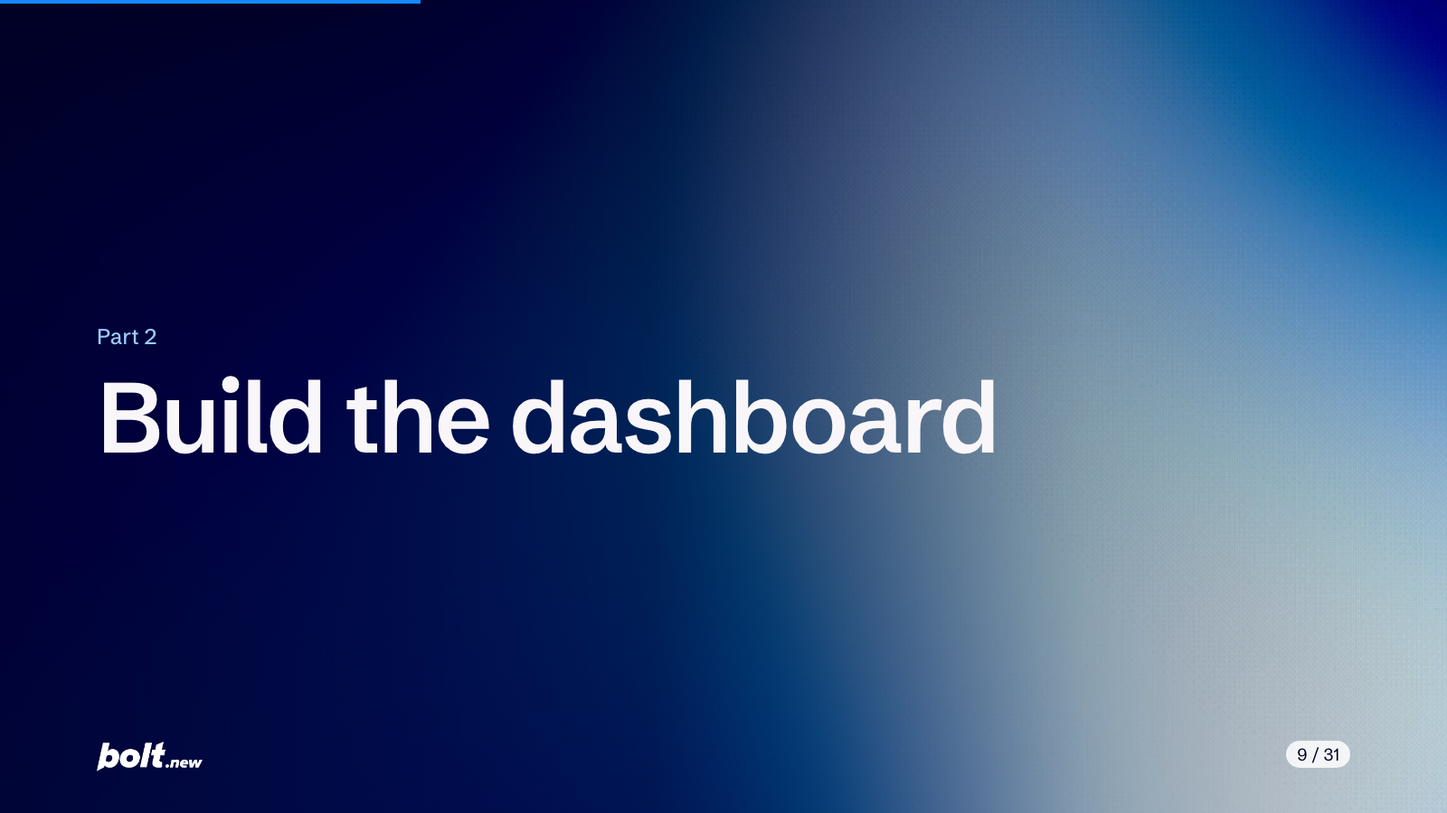
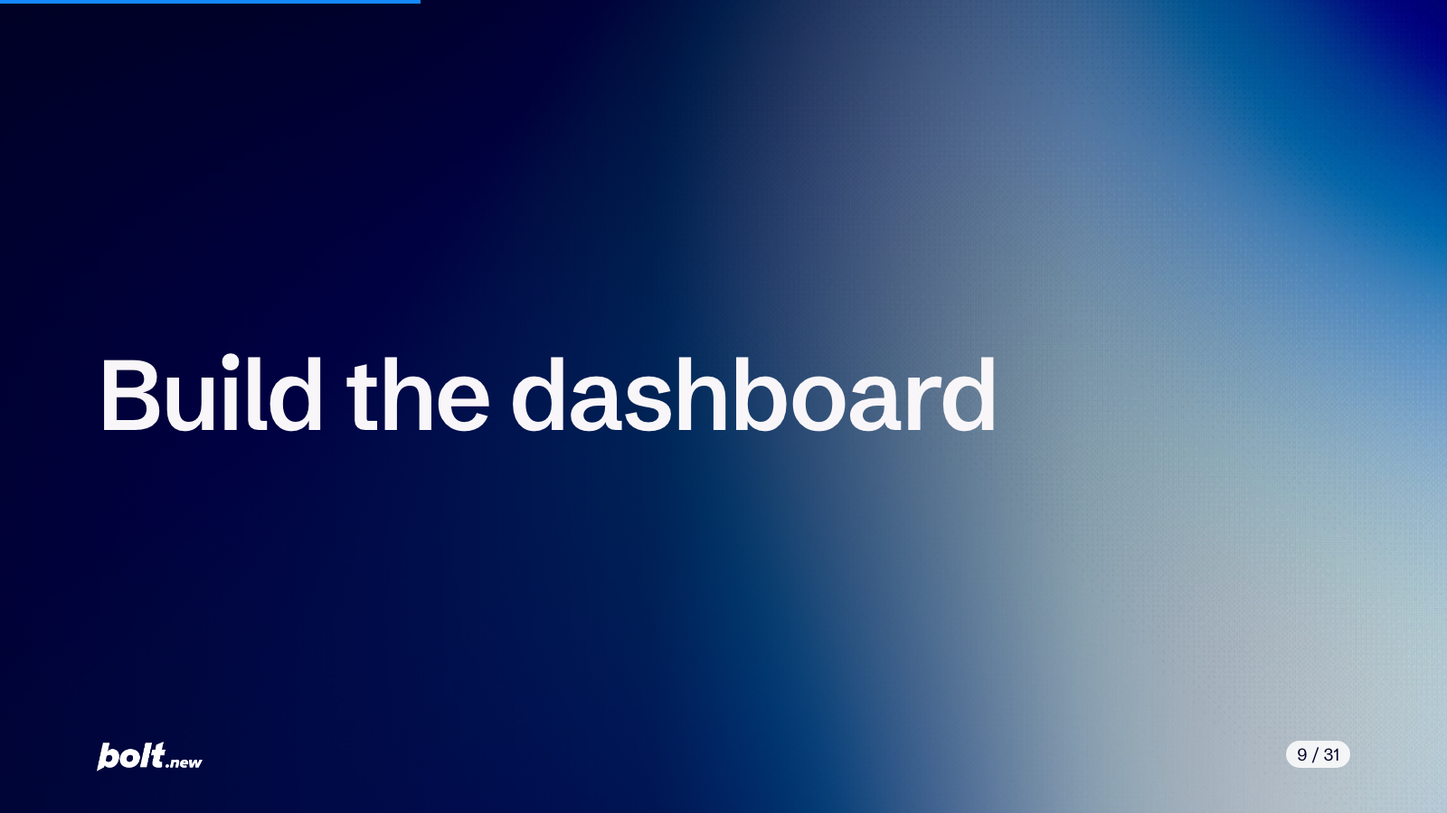
Fix slide content, fill sparse slides, add phone layout
Match the slide 17 email to Prompt 2, round quiet weeks down on slides
3 and 13, send to Marcus Hill on slide 19, drop the Part labels and old
nav, use Ridgeline colors inside its mock-ups, add a Verified domain row
on slide 25, set prompt text to 18px, and stack slides into a scrolling
page below 800px. Re-render screenshots at 1600x900 and 390 wide.

Changed region(s): [[0.0625, 0.4044, 0.6875, 0.56]]

diff --git a/index.html b/index.html
@@ -115,15 +115,96 @@ button.copy:focus-visible,.navbtn:focus-visible{outline:3px solid #9CCBFF;outlin
 #notes .say{color:#fff}
 .slide aside.notes{display:none}
 #progress{position:fixed;left:0;top:0;height:4px;background:var(--blue);width:0;transition:width .35s var(--ease);z-index:10}
-#hint{position:fixed;right:20px;top:14px;font:13px var(--sans);color:#7C7C90;z-index:4;user-select:none}
-#nav{position:fixed;right:16px;bottom:14px;display:flex;gap:8px;z-index:6;opacity:.35;transition:opacity .2s}
-#nav:hover{opacity:1}
-.navbtn{font:600 15px var(--sans);background:#0C0C0F;color:#E9E7F0;border:1px solid #33333D;border-radius:8px;padding:8px 12px;cursor:pointer;min-width:44px;min-height:40px}
+/* Ridgeline's own colors inside its dashboard and email mock-ups */
+.rl{--blue:#2F5D50;--blue-soft:#E3ECE8;--miss:#9C3D2E}
+/* Resend Domains row mock */
+.domains{margin-top:22px;background:var(--surface);border:1px solid var(--rule);border-radius:var(--radius);overflow:hidden;font-size:22px}
+.domains-head,.domains-row{display:grid;grid-template-columns:1fr auto;align-items:center;gap:20px;padding:14px 24px}
+.domains-head{background:var(--pale);border-bottom:1px solid var(--rule);font-size:17px;font-weight:600;color:var(--muted)}
+.domains-row span:first-child{font-family:var(--mono);font-size:20px}
+.verified{display:inline-flex;align-items:center;gap:8px;background:var(--pass-bg);color:var(--pass);font-weight:600;font-size:18px;padding:5px 14px;border-radius:999px}
+.verified::before{content:"";width:9px;height:9px;border-radius:50%;background:var(--pass)}
+.bonus-grid{display:grid;grid-template-columns:1fr 1fr 1fr;gap:28px;flex:1;min-height:0}
+/* sparse slides: larger text, content centered in the space below the heading */
+.slide.roomy>h2+*{margin-top:auto}
+.slide.roomy::after{content:"";margin-top:auto}
+.roomy .body{font-size:31px!important}
+.roomy .lead{font-size:44px}
+.roomy .small{font-size:24px!important}
+.roomy ol.steps li{font-size:32px;margin-bottom:30px}
+.roomy ol.steps li::before{width:54px;height:54px;font-size:24px}
+.roomy ol.steps li{grid-template-columns:54px 1fr}
+.roomy table.ledger{font-size:28px!important}
+.roomy table.ledger th{font-size:20px}
+.roomy table.ledger td{padding:20px 24px}
+.roomy .panel{padding:40px 46px}
+.roomy .panel h3{font-size:27px;margin-bottom:14px}
+.roomy .strip-label{font-size:27px}
+.roomy .strip i{width:46px;height:46px}
+.roomy .field{font-size:23px}
+.roomy .bignum{font-size:200px}
+.roomy .email{font-size:27px}
+.roomy .email .meta{font-size:21px}
+.roomy .email .testline{font-size:20px}
+.roomy .brand{font-size:46px!important}
+/* Below 800px: a stacked, scrolling page instead of the scaled stage */
+@media (max-width:799px){
+  html,body{height:auto;overflow:auto;background:var(--ground)}
+  #viewport{position:static;overflow:visible}
+  #stage{position:static;width:auto;height:auto;transform:none!important}
+  .slide,.slide.active{display:flex;position:relative;inset:auto;height:auto;overflow:hidden;padding:36px 16px 28px;border-bottom:1px solid var(--rule)}
+  .slide.dark{min-height:460px;justify-content:center;border-bottom:0}
+  .slide.roomy>h2+*,.slide.roomy::after{margin-top:0}
+  .slide.roomy::after{display:none}
+  h1{font-size:40px;max-width:none}
+  h2{font-size:29px;max-width:none;margin-bottom:20px!important}
+  h3,.roomy .panel h3,.side-notes h3{font-size:17px}
+  .slide p,.slide li,.slide td,.roomy .body,.roomy .small{font-size:17px!important;line-height:1.5}
+  .slide .lead,.roomy .lead{font-size:20px!important}
+  .slide .kicker,.slide .title-meta{font-size:16px!important;margin-top:20px}
+  .slide .kicker{margin-top:0}
+  .slide .small,.slide .strip-label,.slide .side-notes p,.slide .email .testline,.roomy .small{font-size:15px!important}
+  .slide p.brand,.roomy .brand{font-size:22px!important}
+  .slide p.bignum,.roomy .bignum{font-size:76px!important}
+  .slide table.ledger th{font-size:13px!important;padding:8px 10px}
+  .slide table.ledger td{font-size:15px!important;padding:9px 10px}
+  table.ledger{display:block;overflow-x:auto;max-width:100%!important}
+  table.ledger td.num{white-space:nowrap}
+  .cols,.cols-62,.prompt-wrap,.bonus-grid{display:flex;flex-direction:column;gap:18px!important}
+  .cols>*,.cols-62>*,.prompt-wrap>*,.bonus-grid>*{min-width:0;max-width:100%}
+  .panel,.roomy .panel{padding:18px 18px}
+  .side-notes .panel{padding:16px 18px;margin-bottom:12px}
+  ol.steps li,.roomy ol.steps li{grid-template-columns:32px 1fr;gap:12px;margin-bottom:14px}
+  ol.steps li::before,.roomy ol.steps li::before{width:32px;height:32px;font-size:15px;margin-top:-3px}
+  .step{opacity:1;transform:none}
+  .strip{gap:10px;margin:22px 0;flex-wrap:wrap}
+  .strip i,.strip.big i,.roomy .strip i{width:26px;height:26px}
+  .prompt-box{flex:none}
+  .prompt-head{flex-wrap:wrap;padding:12px 14px;font-size:14px;gap:10px}
+  button.copy{font-size:16px;min-height:44px;padding:0 18px}
+  pre.prompt,pre.prompt.big{flex:none;overflow:visible;font-size:14px;line-height:1.55;padding:16px}
+  .bars{height:180px;gap:8px}
+  .bar{font-size:13px}
+  .bar small{font-size:11px}
+  .email,.roomy .email{font-size:16px}
+  .email .meta,.roomy .email .meta{font-size:14px;padding:12px 16px}
+  .email .bodytext{padding:16px}
+  .field,.roomy .field{font-size:14px;overflow-wrap:anywhere}
+  .domains{font-size:15px}
+  .domains-head,.domains-row{padding:10px 14px}
+  .domains-row span:first-child{font-size:14px}
+  .verified{font-size:14px;padding:3px 10px}
+  .btn{font-size:12px!important;padding:5px 8px!important}
+  .wordmark{position:static;margin-top:28px;width:78px;height:22px}
+  .folio{position:static;align-self:flex-end;font-size:12px;margin-top:16px}
+  .wordmark+.folio{margin-top:-18px}
+  .dark .folio{padding:2px 8px}
+  #progress,#notes{display:none!important}
+}
 @media (prefers-reduced-motion:reduce){.slide.dark.active::before{animation:none}.step,button.copy{transition:none}}
 </style>
 </head>
 <body>
-<div id="hint">Right arrow: next. Left arrow: back. N: notes. F: fullscreen.</div>
 <div id="viewport"><div id="stage">
 
 <!-- 1 -->
@@ -158,11 +239,11 @@ button.copy:focus-visible,.navbtn:focus-visible{outline:3px solid #9CCBFF;outlin
 <section class="slide">
   <h2>A shop website, and a dashboard that notices</h2>
   <div class="cols-62">
-    <div class="panel" style="padding:24px 28px">
-      <p style="font-size:30px;font-weight:600;letter-spacing:-.02em">Ridgeline Coffee <span class="tag">Sample data</span></p>
+    <div class="panel rl" style="padding:24px 28px">
+      <p class="brand" style="font-size:30px;font-weight:600;letter-spacing:-.02em">Ridgeline Coffee <span class="tag">Sample data</span></p>
       <p class="small" style="font-size:18px;margin:4px 0 16px">46 customers, 21 regulars, 217 orders</p>
       <p style="font-size:18px;font-weight:600;color:var(--muted)">7 regulars haven't ordered in 6 weeks</p>
-      <table class="ledger" style="font-size:20px"><tr><td>Marcus Hill</td><td>House Blend</td><td class="num rust">9 wk</td><td class="num"><span class="btn" style="font-size:15px;padding:6px 12px">Send win-back email</span></td></tr><tr><td>Rosa Delgado</td><td>Ethiopia Guji</td><td class="num rust">7 wk</td><td class="num"><span class="btn" style="font-size:15px;padding:6px 12px">Send win-back email</span></td></tr><tr><td>Leila Farah</td><td>House Blend</td><td class="num rust">6 wk</td><td class="num"><span class="btn" style="font-size:15px;padding:6px 12px">Send win-back email</span></td></tr></table>
+      <table class="ledger" style="font-size:20px"><tr><td>Marcus Hill</td><td>House Blend</td><td class="num rust">8 wk</td><td class="num"><span class="btn" style="font-size:15px;padding:6px 12px">Send win-back email</span></td></tr><tr><td>Leila Farah</td><td>House Blend</td><td class="num rust">6 wk</td><td class="num"><span class="btn" style="font-size:15px;padding:6px 12px">Send win-back email</span></td></tr><tr><td>Rosa Delgado</td><td>Ethiopia Guji</td><td class="num rust">6 wk</td><td class="num"><span class="btn" style="font-size:15px;padding:6px 12px">Send win-back email</span></td></tr></table>
     </div>
     <ol class="steps" style="margin-top:6px">
       <li class="step"><span><b>Gone quiet.</b> Regulars who haven't come back in the weeks you choose.</span></li>
@@ -201,7 +282,7 @@ Do not build: payments, a cart, or logins.</pre>
 </section>
 
 <!-- 5 -->
-<section class="slide">
+<section class="slide roomy">
   <h2>A regular already trusts you</h2>
   <div class="cols">
     <div class="panel body"><h3>A new customer</h3><p>Has to find you, learn your prices, and take a chance on the first order.</p></div>
@@ -213,7 +294,7 @@ Do not build: payments, a cart, or logins.</pre>
 </section>
 
 <!-- 6 -->
-<section class="slide">
+<section class="slide roomy">
   <h2>Start with regulars only</h2>
   <div class="cols">
     <div>
@@ -249,11 +330,11 @@ Do not build: payments, a cart, or logins.</pre>
 </section>
 
 <!-- 8 -->
-<section class="slide">
+<section class="slide roomy">
   <h2>Meet today's example</h2>
   <div class="cols">
     <div class="body">
-      <p style="font-size:40px;font-weight:600;letter-spacing:-.02em;margin-bottom:18px">Ridgeline Coffee Roasters</p>
+      <p class="brand" style="font-size:40px;font-weight:600;letter-spacing:-.02em;margin-bottom:18px">Ridgeline Coffee Roasters</p>
       <p>A small-batch roaster selling 12 oz bags online and at a Saturday market. Most regulars reorder about every four weeks.</p>
       <p style="margin-top:18px">The owner noticed market Saturdays felt thinner but couldn't say who'd stopped coming. Quiet window: <b>6 weeks</b>.</p>
     </div>
@@ -268,8 +349,7 @@ Do not build: payments, a cart, or logins.</pre>
 
 <!-- 9 -->
 <section class="slide dark">
-  <p class="kicker">Part 2</p>
-  <h1 style="margin-top:20px">Build the dashboard</h1>
+  <h1>Build the dashboard</h1>
   <div class="wordmark">bolt.new</div><div class="folio"></div>
   <aside class="notes"><p>Switch to Bolt.new: a fresh tab with the prompt box ready.</p></aside>
 </section>
@@ -280,7 +360,7 @@ Do not build: payments, a cart, or logins.</pre>
   <div class="prompt-wrap">
     <div class="prompt-box">
       <div class="prompt-head"><span>Paste into the same project as the site. Replace [YOUR EMAIL]</span><button class="copy" data-copy="p1">Copy prompt</button></div>
-      <pre class="prompt big" id="p1" style="font-size:15.5px;line-height:1.5">Add a private win-back dashboard at /dashboard. Don't link it from the site. Regulars buy 12 oz bags about every four weeks.
+      <pre class="prompt big" id="p1">Add a private win-back dashboard at /dashboard. Don't link it from the site. Regulars buy 12 oz bags about every four weeks.
 
 - Email and password sign-in. Only [YOUR EMAIL] can sign up or read orders. Site visitors can still add orders.
 - Use the existing orders table. Add an "Import CSV" button for a file with columns name, email, item, amount, date. Importing the same file twice adds no duplicates. Add a "Clear all orders" button.
@@ -301,7 +381,7 @@ Use the site's fonts and colors. No gradients, cards, or emoji.</pre>
 </section>
 
 <!-- 11 -->
-<section class="slide">
+<section class="slide roomy">
   <h2>Example data first, then the real file</h2>
   <div class="cols">
     <ol class="steps">
@@ -321,7 +401,7 @@ Use the site's fonts and colors. No gradients, cards, or emoji.</pre>
 </section>
 
 <!-- 12 -->
-<section class="slide">
+<section class="slide roomy">
   <h2>Three ways to send. Pick yours now</h2>
   <table class="ledger">
     <tr><th style="white-space:nowrap">Way to send</th><th>Setup</th><th>Sends from</th><th>Best if</th></tr>
@@ -338,13 +418,13 @@ Use the site's fonts and colors. No gradients, cards, or emoji.</pre>
 <section class="slide">
   <h2 style="margin-bottom:26px">Read the list</h2>
   <div class="cols-62">
-    <div class="panel" style="padding:22px 26px">
+    <div class="panel rl" style="padding:22px 26px">
       <p style="font-size:18px;font-weight:600;color:var(--muted);margin-bottom:6px">7 regulars haven't ordered in 6 weeks</p>
       <table class="ledger" style="font-size:20px">
         <tr><th>Customer</th><th>Last item</th><th class="num">Quiet</th><th class="num">Orders</th></tr>
-        <tr><td>Marcus Hill</td><td>House Blend</td><td class="num rust">9 wk</td><td class="num">9</td></tr>
-        <tr><td>Rosa Delgado</td><td>Ethiopia Guji</td><td class="num rust">7 wk</td><td class="num">9</td></tr>
+        <tr><td>Marcus Hill</td><td>House Blend</td><td class="num rust">8 wk</td><td class="num">9</td></tr>
         <tr><td>Leila Farah</td><td>House Blend</td><td class="num rust">6 wk</td><td class="num">9</td></tr>
+        <tr><td>Rosa Delgado</td><td>Ethiopia Guji</td><td class="num rust">6 wk</td><td class="num">9</td></tr>
         <tr><td>Jonah Weiss</td><td>Ethiopia Guji</td><td class="num rust">12 wk</td><td class="num">8</td></tr>
         <tr><td>Aiko Tanaka</td><td>Swiss Water Decaf</td><td class="num rust">10 wk</td><td class="num">8</td></tr>
         <tr><td>Claire Dubois</td><td>Colombia Huila</td><td class="num rust">8 wk</td><td class="num">8</td></tr>
@@ -353,23 +433,22 @@ Use the site's fonts and colors. No gradients, cards, or emoji.</pre>
     </div>
     <div>
       <table class="ledger"><tr><th>Quiet window</th><th class="num">Regulars flagged</th></tr><tr><td>4 weeks</td><td class="num">10</td></tr><tr><td><b>6 weeks</b></td><td class="num"><b>7</b></td></tr><tr><td>8 weeks</td><td class="num">4</td></tr></table>
-      <div class="panel" style="margin-top:28px"><h3>Checkpoint</h3><p class="body" style="font-size:22px">A private dashboard with a connected database, showing who's slipping away. Post "7" in chat when you see it.</p></div>
+      <div class="panel" style="margin-top:28px"><h3>Checkpoint</h3><p class="body" style="font-size:22px">A private dashboard with a connected database, showing who's slipping away. What would your quiet window be? Tell us in chat.</p></div>
     </div>
   </div>
   <div class="folio"></div>
-  <aside class="notes"><p>On Backup A, right after the import, switch the window to 4 and 8 weeks.</p><p class="say">"Seven regulars, sorted by how loyal they've been. Marcus has ordered nine times and hasn't been back in nine weeks. That's the first email I'd send."</p><p>The file is dated for Nov 19. On the replay, everyone looks a few weeks quieter; the method is the same.</p></aside>
+  <aside class="notes"><p>On Backup A, right after the import, switch the window to 4 and 8 weeks.</p><p class="say">"Seven regulars, sorted by how loyal they've been. Marcus has ordered nine times and hasn't been back in eight weeks. That's the first email I'd send."</p><p>The file is dated for Nov 19. On the replay, everyone looks a few weeks quieter; the method is the same.</p></aside>
 </section>
 
 <!-- 14 -->
 <section class="slide dark">
-  <p class="kicker">Part 3</p>
-  <h1 style="margin-top:20px">Send a win-back email</h1>
+  <h1>Send a win-back email</h1>
   <div class="wordmark">bolt.new</div><div class="folio"></div>
   <aside class="notes"><p>Two seconds, then advance.</p></aside>
 </section>
 
 <!-- 15 -->
-<section class="slide">
+<section class="slide roomy">
   <h2>Connect Resend in three steps</h2>
   <div class="cols">
     <ol class="steps">
@@ -417,13 +496,12 @@ Use the site's fonts and colors. No gradients, cards, or emoji.</pre>
 <section class="slide">
   <h2>Two details make it personal</h2>
   <div class="cols">
-    <div class="email">
+    <div class="email rl">
       <div class="meta"><div>To: rosa.delgado@example.com</div><div>Subject: Rosa, it's been a while</div></div>
       <div class="bodytext">
         <p>Hi <span class="fill">Rosa</span>,</p>
-        <p>It's been <span class="fill">7</span> weeks since your last <span class="fill">Ethiopia Guji</span>. We just roasted a fresh batch, and I'd love to set one aside for you.</p>
-        <p>Just reply to this email and I'll have it ready.</p>
-        <p>Thanks for being a regular,<br>Ridgeline Coffee Roasters</p>
+        <p>It's been <span class="fill">6</span> weeks since your last <span class="fill">Ethiopia Guji, 12 oz</span>. We just roasted a fresh batch, and I'd love to set one aside for you. Just reply to this email.</p>
+        <p>Ridgeline Coffee Roasters</p>
       </div>
     </div>
     <div class="body">
@@ -437,14 +515,14 @@ Use the site's fonts and colors. No gradients, cards, or emoji.</pre>
 </section>
 
 <!-- 18 -->
-<section class="slide">
+<section class="slide roomy">
   <h2>Test mode: every email comes to you</h2>
   <div class="cols">
     <div class="body">
       <p>Until you verify your own domain, Resend only delivers to the email your account uses. So today, every send lands in your inbox, with a line saying who it was meant for.</p>
       <p style="margin-top:22px">The sample customers use example.com addresses, which never receive mail.</p>
     </div>
-    <div class="email">
+    <div class="email rl">
       <div class="meta"><div>From: Ridgeline Coffee Roasters &lt;onboarding@resend.dev&gt;</div><div>Delivered to: you</div></div>
       <div class="bodytext"><p class="testline">Test mode: this email would have gone to rosa.delgado@example.com</p><p>Hi Rosa,</p><p class="small">...</p></div>
     </div>
@@ -458,12 +536,12 @@ Use the site's fonts and colors. No gradients, cards, or emoji.</pre>
   <h2>Send it, then check your inbox</h2>
   <div class="cols">
     <ol class="steps">
-      <li><span>Click <b>Send win-back email</b> on Rosa Delgado.</span></li>
+      <li><span>Click <b>Send win-back email</b> on Marcus Hill.</span></li>
       <li><span>Read the preview: To, Delivered to, subject, and body.</span></li>
       <li><span>Press <b>Send</b>. The row changes to Emailed, with today's date.</span></li>
       <li><span>Open your inbox. Look for Ridgeline Coffee Roasters.</span></li>
     </ol>
-    <div class="panel"><h3>Checkpoint</h3><p class="body" style="font-size:24px">Your first win-back email, sent from your own project through Resend. Post "landed" in chat.</p><p class="small" style="margin-top:20px;font-size:19px">Nothing after a minute? Check spam: test emails from onboarding@resend.dev often land there until you verify a domain in Part 5.</p></div>
+    <div class="panel"><h3>Checkpoint</h3><p class="body" style="font-size:24px">Your first win-back email, sent from your own project through Resend. Ever had a regular disappear? Tell us in chat.</p><p class="small" style="margin-top:20px;font-size:19px">Nothing after a minute? Check spam: test emails from onboarding@resend.dev often land there until you verify a domain later in the session.</p></div>
   </div>
   <div class="wordmark">bolt.new</div><div class="folio"></div>
   <aside class="notes"><p>Do it live on Backup A, or Backup B if A isn't ready. Show the email in spam on purpose: "this is why Part 5 exists." Your Gmail filter keeps it findable.</p><p class="say">"That's a real email, from your own app, through a real email service. Connecting a service like this is the step most people never get to."</p></aside>
@@ -494,19 +572,17 @@ Use the site's fonts and colors. No gradients, cards, or emoji.</pre>
 
 <!-- 21 -->
 <section class="slide dark">
-  <p class="kicker">Part 4</p>
-  <h1 style="margin-top:20px">Is your outreach working?</h1>
+  <h1>Is your outreach working?</h1>
   <div class="wordmark">bolt.new</div><div class="folio"></div>
   <aside class="notes"><p>Two seconds, then advance.</p></aside>
 </section>
 
 <!-- 22 -->
-<section class="slide">
+<section class="slide roomy">
   <h2>One number: your repeat-customer rate</h2>
   <div class="cols">
     <div>
       <p class="lead">Of the customers who ordered this month, how many had ordered before?</p>
-      <p class="body" style="margin-top:30px">11 of the 17 customers who ordered in the last 30 days were returning customers.</p>
     </div>
     <div class="panel"><p class="bignum">65%</p><p class="body" style="margin-top:12px">11 of 17 customers had ordered before</p><p class="rust" style="font-size:24px;margin-top:8px">Down 14 pts</p></div>
   </div>
@@ -531,7 +607,7 @@ Use the site's fonts and colors. No gradients, cards, or emoji.</pre>
 </section>
 
 <!-- 24 -->
-<section class="slide">
+<section class="slide roomy">
   <h2>Make the call next month</h2>
   <table class="ledger" style="font-size:23px">
     <tr><th>What you see</th><th>What it means</th><th>Your move</th></tr>
@@ -546,7 +622,7 @@ Use the site's fonts and colors. No gradients, cards, or emoji.</pre>
 </section>
 
 <!-- 25 -->
-<section class="slide">
+<section class="slide roomy">
   <h2>Go live: send from your own domain</h2>
   <div class="cols">
     <ol class="steps">
@@ -555,7 +631,13 @@ Use the site's fonts and colors. No gradients, cards, or emoji.</pre>
       <li><span>Add them where your domain lives: Bolt.new Settings &gt; Cloud &gt; Custom domains, or your registrar.</span></li>
       <li><span>Wait for <b>Verified</b>, usually 10 to 20 minutes, sometimes a few hours. Then run Prompt 4.</span></li>
     </ol>
-    <div class="panel"><h3>Why it matters</h3><p class="body" style="font-size:23px">A verified domain proves the email is really from you, so it reaches inboxes instead of spam, and test mode can turn off.</p></div>
+    <div>
+      <div class="panel"><h3>Why it matters</h3><p class="body">A verified domain proves the email is really from you, so it reaches inboxes instead of spam, and test mode can turn off.</p></div>
+      <div class="domains" aria-label="Example Domains row in Resend">
+        <div class="domains-head"><span>Domain</span><span>Status</span></div>
+        <div class="domains-row"><span>yourdomain.com</span><span class="verified">Verified</span></div>
+      </div>
+    </div>
   </div>
   <div class="wordmark">bolt.new</div><div class="folio"></div>
   <aside class="notes"><p>Show your Resend Domains page with the domain already Verified. You set this up before the session; never wait on DNS live.</p><p class="say">"Today every email came to you, and it landed in spam. A verified domain fixes both: the same button reaches real customers, from an address that proves it's you."</p></aside>
@@ -582,7 +664,7 @@ Add a footer to every email with my business address, [BUSINESS ADDRESS], and "P
 </section>
 
 <!-- 27 -->
-<section class="slide">
+<section class="slide roomy">
   <h2>Before you email real customers</h2>
   <ol class="steps" style="max-width:1250px">
     <li><span>Your domain shows Verified in Resend.</span></li>
@@ -597,7 +679,7 @@ Add a footer to every email with my business address, [BUSINESS ADDRESS], and "P
 <!-- 28 -->
 <section class="slide">
   <h2 style="margin-bottom:24px">Bonus prompts for after the session</h2>
-  <div style="display:grid;grid-template-columns:1fr 1fr 1fr;gap:28px;flex:1;min-height:0">
+  <div class="bonus-grid">
     <div class="prompt-box"><div class="prompt-head"><span>See who came back</span><button class="copy" data-copy="bc">Copy prompt</button></div><pre class="prompt big" id="bc">Add a "Came back" list under Gone quiet: customers marked Emailed in the last 60 days, and whether they've ordered since. Above it, a line like "4 of 9 emailed customers came back."</pre></div>
     <div class="prompt-box"><div class="prompt-head"><span>Before they go quiet</span><button class="copy" data-copy="bd">Copy prompt</button></div><pre class="prompt big" id="bd">Add a "Due soon" list above Gone quiet: regulars whose usual gap between orders has passed but who aren't quiet yet, with the date they'd normally order.</pre></div>
     <div class="prompt-box"><div class="prompt-head"><span>Phone check</span><button class="copy" data-copy="bp">Copy prompt</button></div><pre class="prompt big" id="bp">Make every screen work on a phone 375 pixels wide. Fix anything cut off, overlapping, too small to tap, or scrolling sideways. Stack Gone quiet above the repeat-customer rate.</pre></div>
@@ -645,21 +727,20 @@ Add a footer to every email with my business address, [BUSINESS ADDRESS], and "P
 </div></div>
 <div id="progress"></div>
 <div id="notes" aria-live="polite"></div>
-<div id="nav"><button class="navbtn" id="prev" aria-label="Previous">Back</button><span id="count" class="navbtn" style="cursor:default"></span><button class="navbtn" id="next" aria-label="Next">Next</button></div>
 <script>
 (function(){
   var slides=[].slice.call(document.querySelectorAll('.slide'));
-  var stage=document.getElementById('stage'), notes=document.getElementById('notes'), count=document.getElementById('count');
+  var stage=document.getElementById('stage'), notes=document.getElementById('notes');
   var i=0;
   slides.forEach(function(s,k){var f=s.querySelector('.folio');if(f)f.textContent=(k+1)+' / '+slides.length;});
-  function fit(){var s=Math.min(window.innerWidth/1600,window.innerHeight/900);stage.style.transform='translate(-50%,-50%) scale('+s+')';}
+  var narrow=window.matchMedia('(max-width: 799px)');
+  function fit(){if(narrow.matches){stage.style.transform='';return;}var s=Math.min(window.innerWidth/1600,window.innerHeight/900);stage.style.transform='translate(-50%,-50%) scale('+s+')';}
   function steps(){return [].slice.call(slides[i].querySelectorAll('.step'));}
   function show(n,revealAll){
     i=Math.max(0,Math.min(slides.length-1,n));
     slides.forEach(function(s,k){s.classList.toggle('active',k===i);});
     steps().forEach(function(e){e.classList.toggle('on',!!revealAll);});
     var a=slides[i].querySelector('aside.notes'); notes.innerHTML=a?a.innerHTML:'';
-    count.textContent=(i+1)+' / '+slides.length;
     document.getElementById('progress').style.width=((i+1)/slides.length*100)+'%';
     if(location.hash!=='#'+(i+1)) history.replaceState(null,'','#'+(i+1));
   }
@@ -672,7 +753,6 @@ Add a footer to every email with my business address, [BUSINESS ADDRESS], and "P
     else if(e.key==='n'||e.key==='N'){notes.classList.toggle('show');}
     else if(e.key==='f'||e.key==='F'){if(!document.fullscreenElement){document.documentElement.requestFullscreen&&document.documentElement.requestFullscreen();}else{document.exitFullscreen();}}
   });
-  document.getElementById('next').onclick=next; document.getElementById('prev').onclick=prev;
   document.querySelectorAll('button.copy').forEach(function(b){
     b.addEventListener('click',function(){
       var t=document.getElementById(b.getAttribute('data-copy')).textContent;
@@ -684,6 +764,8 @@ Add a footer to every email with my business address, [BUSINESS ADDRESS], and "P
   window.addEventListener('resize',fit); fit();
   window.addEventListener('hashchange',function(){var n=parseInt(location.hash.slice(1),10);if(!isNaN(n)&&n-1!==i)show(n-1,false);});
   var h=parseInt(location.hash.slice(1),10); show(isNaN(h)?0:h-1,false);
+  if(narrow.matches&&!isNaN(h)&&slides[h-1])slides[h-1].scrollIntoView();
+  window.addEventListener('hashchange',function(){var n=parseInt(location.hash.slice(1),10);if(narrow.matches&&slides[n-1])slides[n-1].scrollIntoView();});
 })();
 </script>
 </body>
